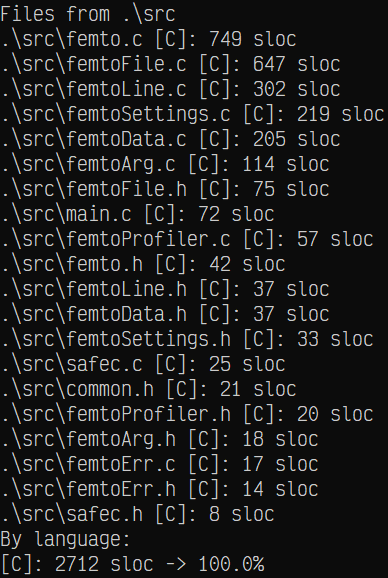
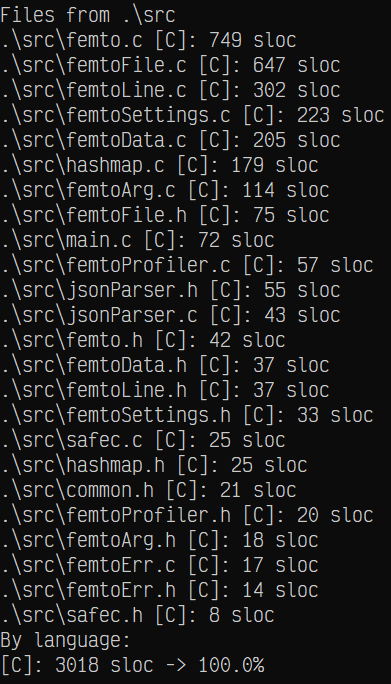
Update sloc

Changed region(s): [[0.0, 0.0, 0.9897, 0.9965]]

diff --git a/README.md b/README.md
@@ -10,7 +10,7 @@ It is a bigger more feature-rich version of my other console text editor [atto](
 It is also written in vanilla C + Win32 Console API - it's designed to be used solely on Microsoft Windows.
 It has been compiled with MinGW GCC.
 
-Currently, my other tool [slocWin32](https://github.com/makuke1234/slocWin32) reports ~2700 source code lines (excluding whitespace & comments):
+Currently, my other tool [slocWin32](https://github.com/makuke1234/slocWin32) reports ~3000 source code lines (excluding whitespace & comments):
 
 ![SLOC](./images/sloc.png)
 
@@ -124,6 +124,8 @@ Currently, my other tool [slocWin32](https://github.com/makuke1234/slocWin32) re
         * *Copying is already implicitly supported by the console itself, although limited to only 1 screenbuffer at a time*
     * [ ] 'Raw editing'/'saving later to a file' support
     * [ ] Proper setting loading from file
+    * [x] Built-in hashmap support
+    * [ ] Built-in JSON support
 * 1.1
     * [x] Automatic indentation, turned on by default, new settings
     * [x] Command line argument parsing support
